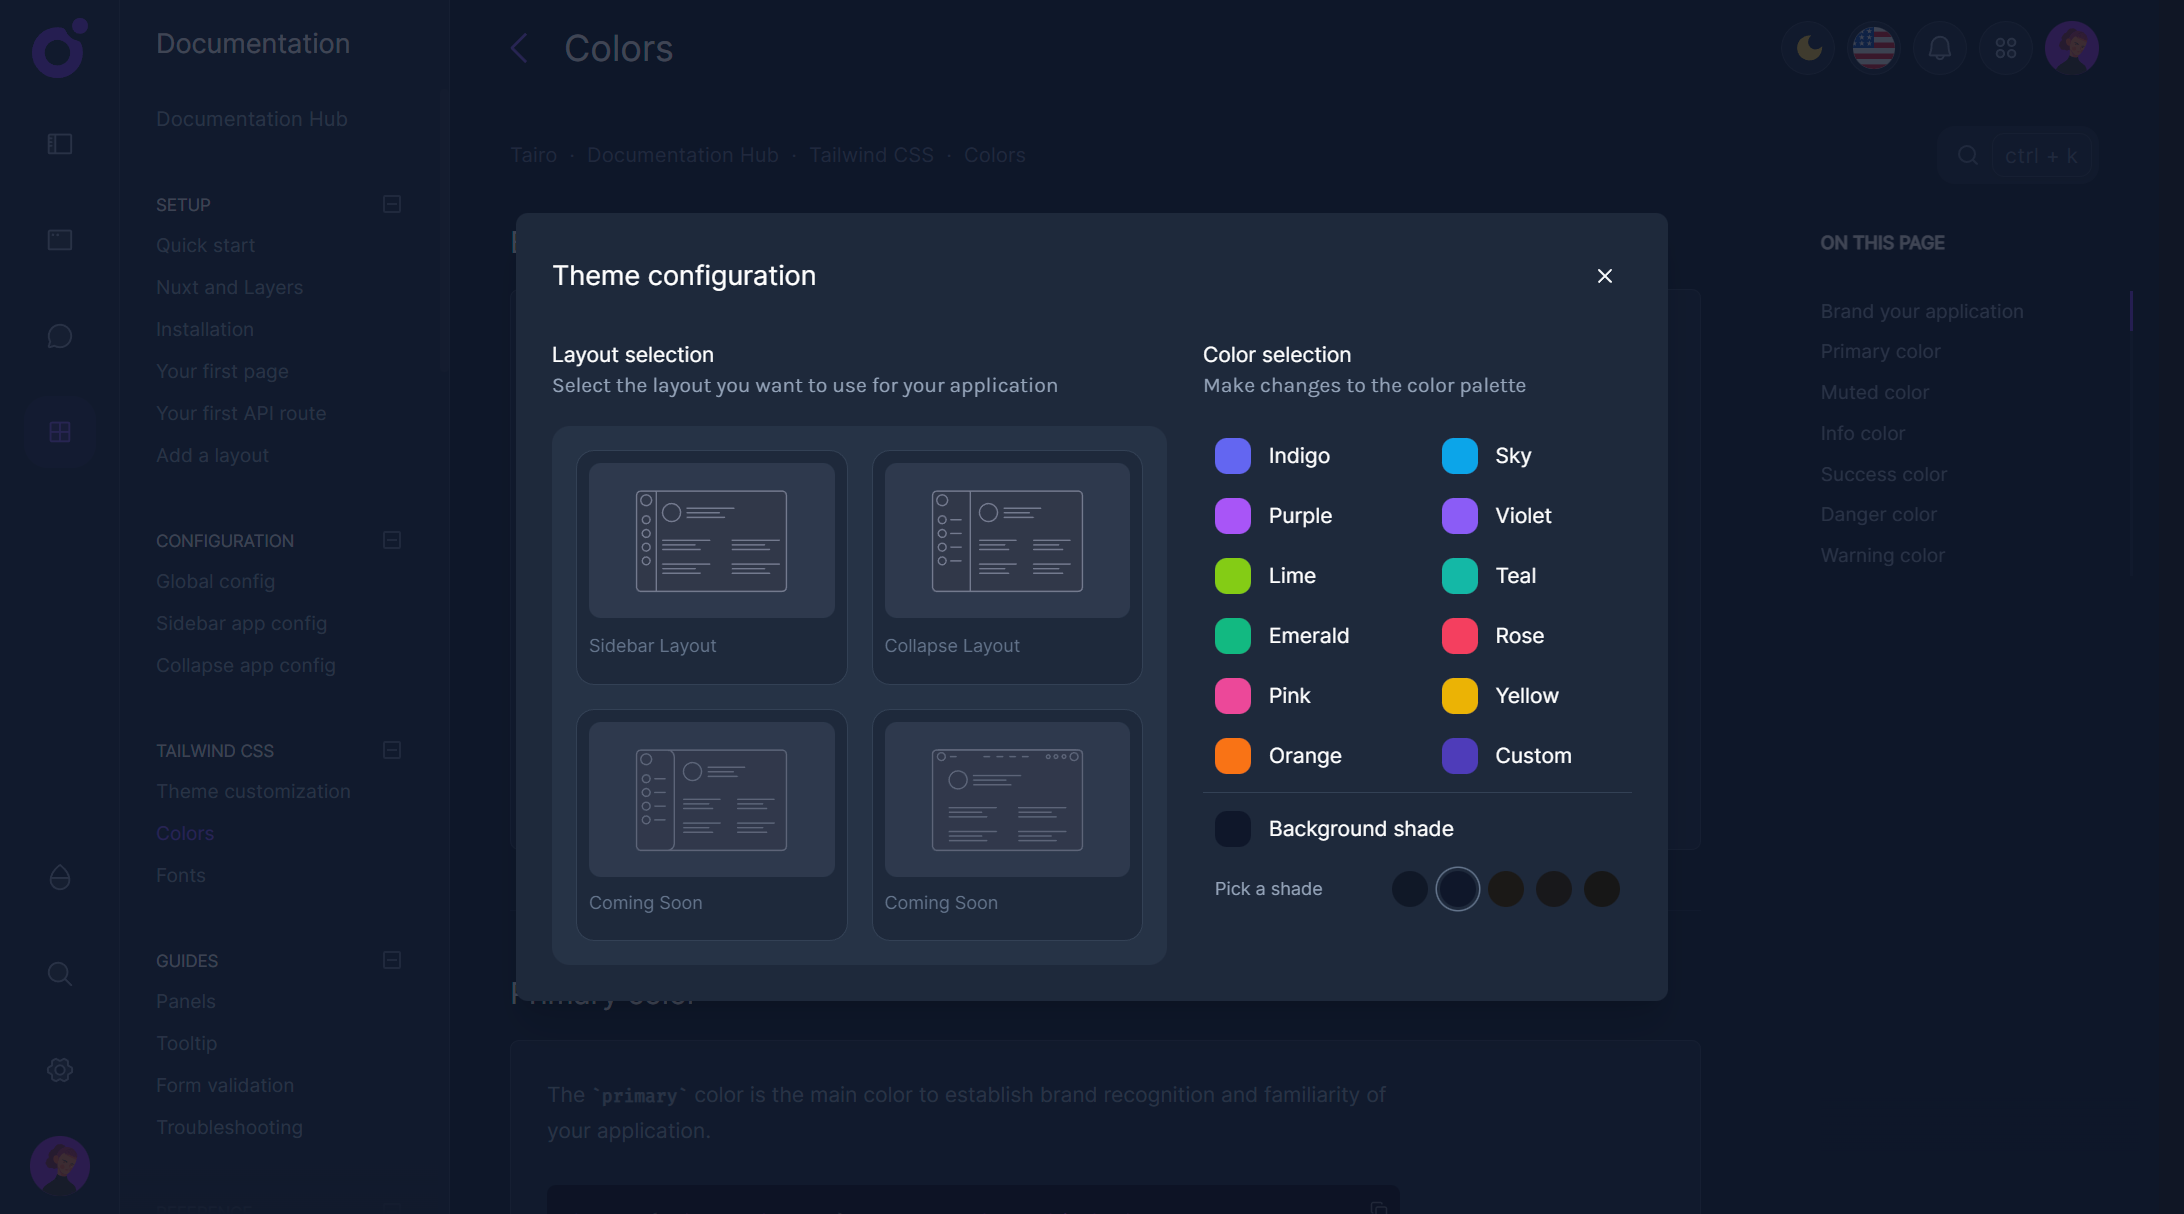
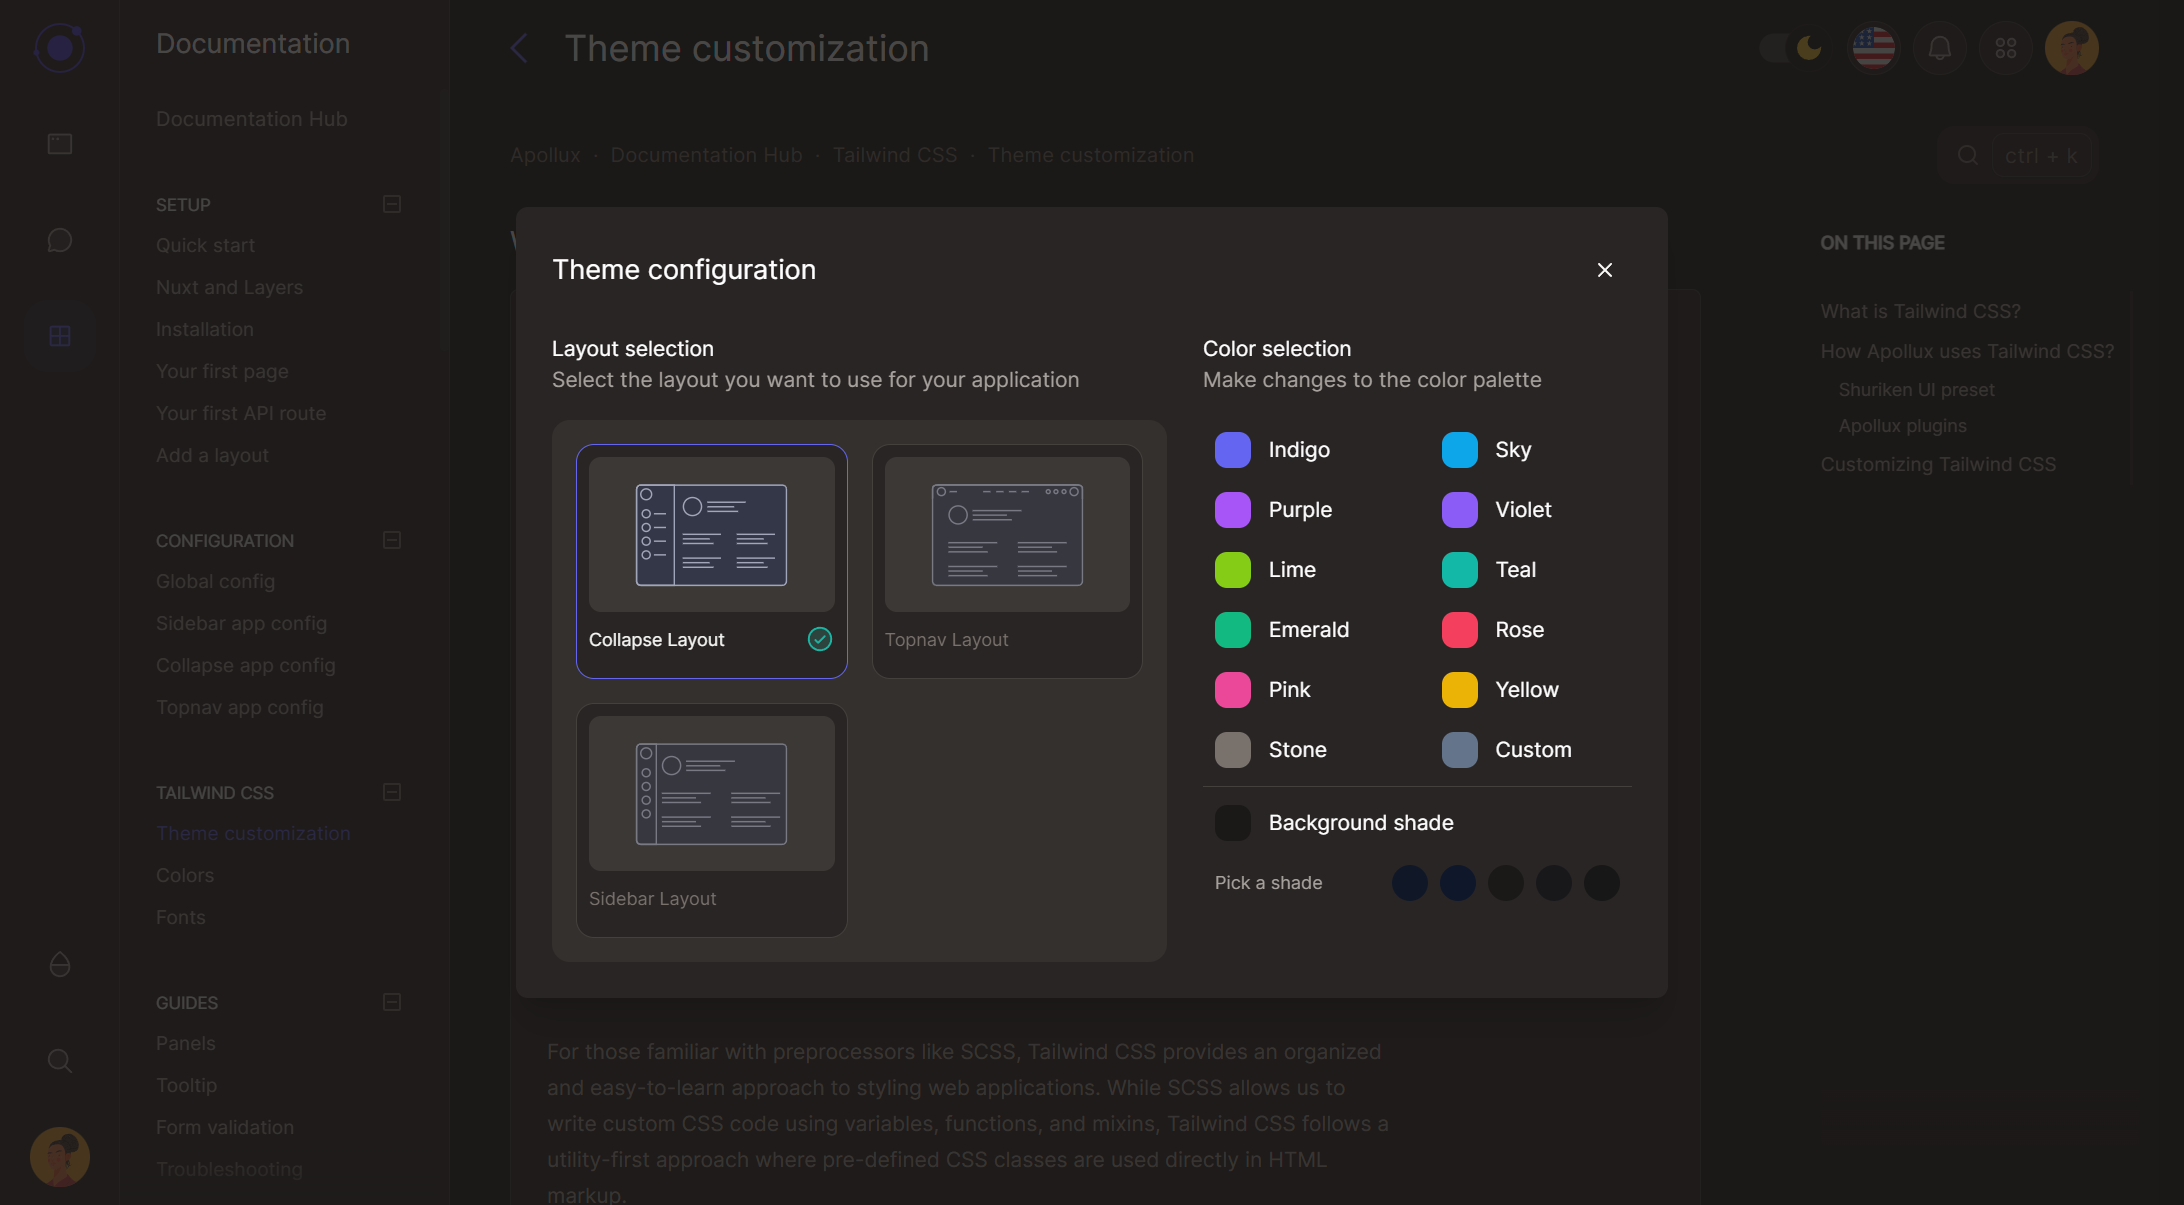
feat: master layouts landing section

diff --git a/layers/landing/components/LandingLayouts.vue b/layers/landing/components/LandingLayouts.vue
@@ -1,0 +1,151 @@
+<script setup lang="ts">
+const layouts = [
+  {
+    name: 'collapse',
+    title: 'Collapse layout',
+    description: 'Apollux default layout',
+    text: "The collapse layout focuses on a single sidebar with a list of menu and submenu links, ideal for smaller apps when you don't have much content.",
+    img: '/img/illustrations/ui/collapse.png',
+    imgDark: '/img/illustrations/ui/collapse-dark.png',
+    icon: 'ph:sidebar-simple-duotone',
+  },
+  {
+    name: 'topnav',
+    title: 'Topnav layout',
+    description: 'Top navigation layout',
+    text: 'The topnav layout focuses on a single navbar that offers a smart way to navigate through your pages. It is probably more adapted for smaller apps.',
+    img: '/img/illustrations/ui/topnav.png',
+    imgDark: '/img/illustrations/ui/topnav-dark.png',
+    icon: 'ph:app-window-duotone',
+  },
+  {
+    name: 'sidebar',
+    title: 'Sidebar layout',
+    description: 'Dual sidebar layout',
+    text: 'The sidebar layout is a double sided navigation layout. It has a sidebar with a list of menu icons and a subsidebar with a list of menu and submenu links',
+    img: '/img/illustrations/ui/sidebar.png',
+    imgDark: '/img/illustrations/ui/sidebar-dark.png',
+    icon: 'ph:sidebar-duotone',
+  },
+]
+
+const activeLayout = ref('collapse')
+</script>
+
+<template>
+  <div class="dark:bg-muted-900 bg-white py-24">
+    <div class="mx-auto w-full max-w-7xl px-4">
+      <div class="mb-10 max-w-2xl">
+        <BaseText
+          class="text-primary-500 mb-2 text-[0.65rem] uppercase tracking-wider"
+          >Multiple Layouts</BaseText
+        >
+        <BaseHeading
+          as="h2"
+          size="4xl"
+          weight="light"
+          lead="tight"
+          class="text-muted-800 mx-auto mb-4 dark:text-white"
+        >
+          Master layout options
+        </BaseHeading>
+        <BaseParagraph
+          size="lg"
+          class="text-muted-500 dark:text-muted-100 mx-auto mb-4"
+        >
+          Using the Nuxt Layers concept, we have been able to create three
+          different layouts that you can use in your project. Each one has its
+          own layer and a set of components and composables.
+        </BaseParagraph>
+      </div>
+      <div class="grid grid-cols-12 gap-6">
+        <div class="col-span-12 flex h-full md:col-span-5">
+          <div class="w-full space-y-2 sm:max-w-xs">
+            <button
+              v-for="(layout, index) in layouts"
+              :key="index"
+              type="button"
+              class="flex w-full items-center gap-3 rounded-xl p-4 text-start"
+              :class="
+                activeLayout === layout.name
+                  ? 'bg-muted-50 dark:bg-muted-950/50'
+                  : ''
+              "
+              @click="activeLayout = layout.name"
+            >
+              <Icon
+                :name="layout.icon"
+                class="h-6 w-6"
+                :class="
+                  activeLayout === layout.name
+                    ? 'text-primary-500'
+                    : 'text-muted-400'
+                "
+              />
+              <span class="block">
+                <BaseText size="md" lead="tight">{{ layout.title }}</BaseText>
+                <BaseText
+                  size="xs"
+                  class="text-muted-500 dark:text-muted-400"
+                  >{{ layout.description }}</BaseText
+                >
+              </span>
+            </button>
+          </div>
+        </div>
+        <div class="col-span-12 md:col-span-7">
+          <BaseCard
+            v-for="(layout, index) in layouts"
+            :key="index"
+            color="white-contrast"
+            shape="curved"
+            class="relative flex flex-col overflow-hidden rounded-xl text-start"
+            v-show="activeLayout === layout.name"
+          >
+            <div class="bg-muted-100 dark:bg-muted-900/40 relative">
+              <img
+                :src="layout.img"
+                class="block w-full dark:hidden"
+                :alt="layout.title"
+                width="717"
+                height="384"
+                loading="lazy"
+                decoding="async"
+              />
+              <img
+                :src="layout.imgDark"
+                class="hidden w-full dark:block"
+                :alt="layout.title"
+                width="717"
+                height="384"
+                loading="lazy"
+                decoding="async"
+              />
+              <NuxtLink
+                to="/documentation/setup/add-a-layout"
+                class="border-muted-200 text-muted-600 dark:text-muted-400 hover:text-primary-500 dark:hover:text-primary-500 hover:border-primary-500 dark:bg-muted-950 dark:border-muted-800 dark:hover:border-primary-500 absolute start-6 top-6 inline-flex items-center gap-1 rounded-full border bg-white px-5 py-2 transition-colors duration-300"
+              >
+                <span class="font-sans text-sm">How to use</span>
+                <Icon name="lucide:arrow-right" class="h-3 w-3" />
+              </NuxtLink>
+            </div>
+            <div class="relative flex grow flex-col px-8 pb-8 pt-4">
+              <div
+                class="absolute -top-8 start-0 z-10 h-6 w-full bg-white blur-md dark:hidden"
+              ></div>
+              <div class="mt-auto space-y-2">
+                <BaseHeading weight="light">{{ layout.title }}</BaseHeading>
+                <BaseParagraph
+                  size="sm"
+                  class="text-muted-500 dark:text-muted-400"
+                >
+                  {{ layout.text }}
+                </BaseParagraph>
+              </div>
+            </div>
+          </BaseCard>
+        </div>
+      </div>
+    </div>
+  </div>
+</template>

diff --git a/.demo/components/DemoWizardNavigation.vue b/.demo/components/DemoWizardNavigation.vue
@@ -27,7 +27,7 @@ onClickOutside(target, () => (open.value = false))
           to="/dashboards"
           class="border-muted-200 dark:border-muted-700 flex w-14 items-center justify-center border-r pe-6"
         >
-          <ApolluxLogo class="text-primary-600 h-10 shrink-0" />
+          <ApolluxLogo class="text-primary-500 h-10 shrink-0" />
         </NuxtLink>
         <div class="hidden items-center gap-2 ps-6 font-sans sm:flex">
           <p class="text-muted-500 dark:text-muted-400">

diff --git a/layers/landing/components/LandingFeaturesTile.vue b/layers/landing/components/LandingFeaturesTile.vue
@@ -13,7 +13,7 @@ const props = defineProps<{
     <div
       class="items-top ring-muted-900/5 dark:bg-muted-950 relative flex justify-start space-x-6 rounded-xl bg-white p-5 leading-none ring-1"
     >
-      <Icon :name="props.icon" class="text-primary-600 h-8 w-8 shrink-0" />
+      <Icon :name="props.icon" class="text-primary-500 h-8 w-8 shrink-0" />
       <div class="space-y-1">
         <BaseHeading as="h3" size="md" weight="light" lead="tight">
           {{ props.title }}

diff --git a/.demo/components/DemoNavigationTop.vue b/.demo/components/DemoNavigationTop.vue
@@ -18,7 +18,7 @@ const props = withDefaults(
       <div class="w-full flex items-center justify-between py-5">
         <div class="flex-1 flex items-center">
           <NuxtLink to="/dashboards" class="flex items-center gap-2">
-            <ApolluxLogo class="w-8 h-8 text-primary-600" />
+            <ApolluxLogo class="w-8 h-8 text-primary-500" />
             <ApolluxLogoText
               class="text-muted-800 dark:text-white h-3 hidden lg:block"
             />

diff --git a/layers/apollux-layout-topnav/app.config.ts b/layers/apollux-layout-topnav/app.config.ts
@@ -6,7 +6,7 @@ export default defineAppConfig({
         logo: {
           component: 'ApolluxLogo',
           resolve: true,
-          props: { class: 'text-primary-600 h-10 w-10' },
+          props: { class: 'text-primary-500 h-10 w-10' },
         },
         items: [],
       },

diff --git a/layers/apollux-layout-sidebar/app.config.ts b/layers/apollux-layout-sidebar/app.config.ts
@@ -17,7 +17,7 @@ export default defineAppConfig({
         logo: {
           component: 'ApolluxLogo',
           resolve: true,
-          props: { class: 'text-primary-600 h-10' },
+          props: { class: 'text-primary-500 h-10' },
         },
         items: [],
       },

diff --git a/layers/landing/pages/index.vue b/layers/landing/pages/index.vue
@@ -18,6 +18,7 @@ const { y } = useNinjaWindowScroll()
     <LandingCustomizer />
     <LandingDemos :limit="12" />
     <LandingLayers />
+    <LandingLayouts />
     <LandingFeatures />
     <LandingBenefits />
     <LandingCta />

diff --git a/layers/documentation/content/documentation/30.tailwindcss/2.colors.md b/layers/documentation/content/documentation/30.tailwindcss/2.colors.md
@@ -9,7 +9,7 @@ title: Brand your application
 ---
 To make your application stand out, Apollux uses `primary`, `info`, `success`, `warning`, `danger` and `muted` custom color shades to allow you to easily customize the look and feel of your dashboard. By default, we use predefined colors from Tailwind CSS but you can easily change them by editing the `tailwind.config.ts` file. 
 
-- **Use the customizer :** Open the Apollux theme customizer by clicking on the droplet icon in the sidebar. You can dynamically change the layout between the two available (more in future updates). You can change the primary color using one of the presets but also the background color, by selecting one of the available shades. The customizer is a useful tool that let's you see your brand color in action.
+- **Use the customizer :** Open the Apollux theme customizer by clicking on the droplet icon in the navigation. You can dynamically change the layout between the three available (more in future updates). You can change the primary color using one of the presets but also the background color, by selecting one of the available shades. The customizer is a useful tool that let's you see your brand color in action.
 
   :::doc-link-image
   ---
